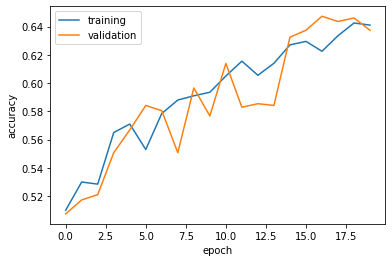
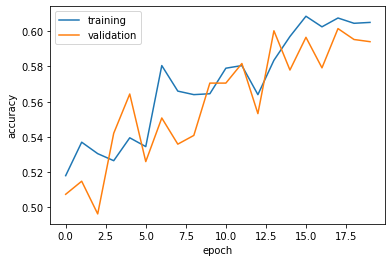
updated model

diff --git a/_posts/2021-11-10-Blog-Post-5.md b/_posts/2021-11-10-Blog-Post-5.md
@@ -202,52 +202,51 @@ history = model1.fit(train_dataset,
 ```
 
     Epoch 1/20
-    63/63 [==============================] - 6s 81ms/step - loss: 97.3352 - accuracy: 0.5320 - val_loss: 0.6938 - val_accuracy: 0.5000
+    63/63 [==============================] - 36s 84ms/step - loss: 59.7299 - accuracy: 0.5290 - val_loss: 1.5811 - val_accuracy: 0.5371
     Epoch 2/20
-    63/63 [==============================] - 5s 76ms/step - loss: 0.6951 - accuracy: 0.5600 - val_loss: 0.6938 - val_accuracy: 0.5124
+    63/63 [==============================] - 5s 76ms/step - loss: 2.1825 - accuracy: 0.6020 - val_loss: 0.7144 - val_accuracy: 0.5198
     Epoch 3/20
-    63/63 [==============================] - 5s 76ms/step - loss: 0.6734 - accuracy: 0.5745 - val_loss: 0.6927 - val_accuracy: 0.5099
+    63/63 [==============================] - 5s 76ms/step - loss: 0.7894 - accuracy: 0.6295 - val_loss: 0.6952 - val_accuracy: 0.5210
     Epoch 4/20
-    63/63 [==============================] - 5s 77ms/step - loss: 0.6382 - accuracy: 0.6165 - val_loss: 0.6923 - val_accuracy: 0.5309
+    63/63 [==============================] - 5s 76ms/step - loss: 0.6209 - accuracy: 0.6720 - val_loss: 0.7031 - val_accuracy: 0.5124
     Epoch 5/20
-    63/63 [==============================] - 5s 77ms/step - loss: 0.6050 - accuracy: 0.6420 - val_loss: 0.6962 - val_accuracy: 0.5297
+    63/63 [==============================] - 5s 79ms/step - loss: 0.5342 - accuracy: 0.7240 - val_loss: 0.7068 - val_accuracy: 0.5235
     Epoch 6/20
-    63/63 [==============================] - 5s 77ms/step - loss: 0.5345 - accuracy: 0.6995 - val_loss: 0.7135 - val_accuracy: 0.5569
+    63/63 [==============================] - 5s 80ms/step - loss: 0.4904 - accuracy: 0.7555 - val_loss: 0.7096 - val_accuracy: 0.5235
     Epoch 7/20
-    63/63 [==============================] - 5s 77ms/step - loss: 0.4886 - accuracy: 0.7325 - val_loss: 0.7721 - val_accuracy: 0.5470
+    63/63 [==============================] - 5s 81ms/step - loss: 0.4260 - accuracy: 0.7870 - val_loss: 0.7373 - val_accuracy: 0.5248
     Epoch 8/20
-    63/63 [==============================] - 5s 78ms/step - loss: 0.4258 - accuracy: 0.7830 - val_loss: 0.7828 - val_accuracy: 0.5532
+    63/63 [==============================] - 6s 83ms/step - loss: 0.3735 - accuracy: 0.8140 - val_loss: 0.7581 - val_accuracy: 0.5681
     Epoch 9/20
-    63/63 [==============================] - 5s 77ms/step - loss: 0.3873 - accuracy: 0.8085 - val_loss: 0.8824 - val_accuracy: 0.5347
+    63/63 [==============================] - 5s 82ms/step - loss: 0.3569 - accuracy: 0.8390 - val_loss: 0.8211 - val_accuracy: 0.5668
     Epoch 10/20
-    63/63 [==============================] - 5s 78ms/step - loss: 0.3158 - accuracy: 0.8410 - val_loss: 0.9913 - val_accuracy: 0.5446
+    63/63 [==============================] - 5s 78ms/step - loss: 0.3198 - accuracy: 0.8490 - val_loss: 0.8517 - val_accuracy: 0.5656
     Epoch 11/20
-    63/63 [==============================] - 5s 77ms/step - loss: 0.2752 - accuracy: 0.8660 - val_loss: 1.0724 - val_accuracy: 0.5619
+    63/63 [==============================] - 6s 96ms/step - loss: 0.2869 - accuracy: 0.8730 - val_loss: 0.9513 - val_accuracy: 0.5854
     Epoch 12/20
-    63/63 [==============================] - 5s 78ms/step - loss: 0.2513 - accuracy: 0.8795 - val_loss: 1.0783 - val_accuracy: 0.5557
+    63/63 [==============================] - 5s 79ms/step - loss: 0.2764 - accuracy: 0.8725 - val_loss: 0.9976 - val_accuracy: 0.5730
     Epoch 13/20
-    63/63 [==============================] - 5s 77ms/step - loss: 0.2183 - accuracy: 0.8980 - val_loss: 1.2088 - val_accuracy: 0.5631
+    63/63 [==============================] - 5s 83ms/step - loss: 0.2682 - accuracy: 0.8745 - val_loss: 1.1224 - val_accuracy: 0.5866
     Epoch 14/20
-    63/63 [==============================] - 5s 78ms/step - loss: 0.2272 - accuracy: 0.9200 - val_loss: 1.4078 - val_accuracy: 0.5619
+    63/63 [==============================] - 5s 82ms/step - loss: 0.2204 - accuracy: 0.8975 - val_loss: 1.1921 - val_accuracy: 0.5965
     Epoch 15/20
-    63/63 [==============================] - 5s 78ms/step - loss: 0.2118 - accuracy: 0.9105 - val_loss: 1.4874 - val_accuracy: 0.5755
+    63/63 [==============================] - 6s 83ms/step - loss: 0.2380 - accuracy: 0.8960 - val_loss: 1.2220 - val_accuracy: 0.5854
     Epoch 16/20
-    63/63 [==============================] - 5s 81ms/step - loss: 0.1441 - accuracy: 0.9400 - val_loss: 1.7903 - val_accuracy: 0.5656
+    63/63 [==============================] - 5s 82ms/step - loss: 0.2318 - accuracy: 0.9075 - val_loss: 1.2270 - val_accuracy: 0.5842
     Epoch 17/20
-    63/63 [==============================] - 5s 77ms/step - loss: 0.2166 - accuracy: 0.9360 - val_loss: 1.6407 - val_accuracy: 0.5532
+    63/63 [==============================] - 5s 78ms/step - loss: 0.2010 - accuracy: 0.9080 - val_loss: 1.3600 - val_accuracy: 0.5631
     Epoch 18/20
-    63/63 [==============================] - 5s 77ms/step - loss: 0.1673 - accuracy: 0.9405 - val_loss: 1.8203 - val_accuracy: 0.5705
+    63/63 [==============================] - 5s 81ms/step - loss: 0.1818 - accuracy: 0.9220 - val_loss: 1.4521 - val_accuracy: 0.6027
     Epoch 19/20
-    63/63 [==============================] - 5s 78ms/step - loss: 0.1222 - accuracy: 0.9540 - val_loss: 1.7325 - val_accuracy: 0.5606
+    63/63 [==============================] - 5s 82ms/step - loss: 0.1469 - accuracy: 0.9320 - val_loss: 1.6404 - val_accuracy: 0.5842
     Epoch 20/20
-    63/63 [==============================] - 5s 78ms/step - loss: 0.0887 - accuracy: 0.9595 - val_loss: 2.1318 - val_accuracy: 0.5743
+    63/63 [==============================] - 6s 84ms/step - loss: 0.1299 - accuracy: 0.9445 - val_loss: 1.5791 - val_accuracy: 0.5854
     
 
 We want to visualize the training history.
 
 
 ```python
-# history object holds a record of the loss values and metric values during training
 plt.plot(history.history["accuracy"], label = "training")
 plt.plot(history.history["val_accuracy"], label = "validation")
 plt.gca().set(xlabel = "epoch", ylabel = "accuracy") # gca: get current axis 
@@ -257,7 +256,7 @@ plt.legend()
 
 
 
-    <matplotlib.legend.Legend at 0x7fce4ab79290>
+    <matplotlib.legend.Legend at 0x7f6d93d13390>
 
 
 
@@ -269,8 +268,8 @@ plt.legend()
 
 In order to consistently achieve at least 52% validation accuracy, I have tried using different numbers of layers of the layers.Conv2D and I have also experimented with different kernel sizes. 
 
-**The accuracy of my model stabilized between 52% and 57% during training.**  
-The model performed better than the basline by more than 10%.    
+**The accuracy of my model stabilized between 56% and 60% during training.**  
+The model performed better than the basline by more than 5%.    
 We can indeed observe overfitting for this model as the training accuracy is much higher than the validation accuracy. 
 
 <h1>§3. Model with Data Augmentation</h1>
@@ -283,24 +282,19 @@ Then we will make a plot of the original image and also when RandomFlip() has be
 
 
 ```python
-flip = tf.keras.layers.RandomFlip("horizontal")
+RandomFlip = tf.keras.layers.RandomFlip()
 ```
 
 
 ```python
-for images, labels in train_dataset.take(1):
+for image, _ in train_dataset.take(1):
   plt.figure(figsize=(10, 10))
-  for i in range(6):
-    ax = plt.subplot(2, 3, i + 1)
-    # we want to show the original images for the first row 
-    if i < 3:
-      plt.imshow(images[i].numpy().astype("uint8"))
-      plt.axis('off')
-    # we want to show flipped images for second row 
-    else:
-      fliped_image = flip(tf.expand_dims(images[i-3], 0))
-      plt.imshow(fliped_image[0] / 255)
-      plt.axis('off')
+  first_image = image[0]
+  for i in range(9):
+    ax = plt.subplot(3, 3, i + 1)
+    augmented_image = RandomFlip(tf.expand_dims(first_image, 0))
+    plt.imshow(augmented_image[0] / 255)
+    plt.axis('off')
 ```
 
 
@@ -313,24 +307,19 @@ Then we will create a tf.keras.layers.RandomRotation() layer and make a plot of 
 
 
 ```python
-rotate = tf.keras.layers.RandomRotation(0.2)
+RandomRotation = tf.keras.layers.RandomRotation(0.5)
 ```
 
 
 ```python
-for images, labels in train_dataset.take(1):
+for image, _ in train_dataset.take(1):
   plt.figure(figsize=(10, 10))
-  for i in range(6):
-    ax = plt.subplot(2, 3, i + 1)
-    # we want to show the original images for the first row 
-    if i < 3:
-      plt.imshow(images[i].numpy().astype("uint8"))
-      plt.axis('off')
-    # we want to show rotated images for second row 
-    else:
-      rotated_image = rotate(tf.expand_dims(images[i-3], 0))
-      plt.imshow(rotated_image[0] / 255)
-      plt.axis('off')
+  first_image = image[0]
+  for i in range(9):
+    ax = plt.subplot(3, 3, i + 1)
+    augmented_image = RandomRotation(tf.expand_dims(first_image, 0))
+    plt.imshow(augmented_image[0] / 255)
+    plt.axis('off')
 ```
 
 
@@ -378,45 +367,45 @@ history = model2.fit(train_dataset,
 ```
 
     Epoch 1/20
-    63/63 [==============================] - 7s 81ms/step - loss: 68.1625 - accuracy: 0.5100 - val_loss: 0.6902 - val_accuracy: 0.5074
+    63/63 [==============================] - 7s 83ms/step - loss: 40.0841 - accuracy: 0.5180 - val_loss: 0.6941 - val_accuracy: 0.5074
     Epoch 2/20
-    63/63 [==============================] - 5s 79ms/step - loss: 0.6873 - accuracy: 0.5300 - val_loss: 0.6978 - val_accuracy: 0.5173
+    63/63 [==============================] - 5s 80ms/step - loss: 0.6913 - accuracy: 0.5370 - val_loss: 0.6925 - val_accuracy: 0.5149
     Epoch 3/20
-    63/63 [==============================] - 5s 81ms/step - loss: 0.6922 - accuracy: 0.5285 - val_loss: 0.6839 - val_accuracy: 0.5210
+    63/63 [==============================] - 5s 79ms/step - loss: 0.6902 - accuracy: 0.5305 - val_loss: 0.6988 - val_accuracy: 0.4963
     Epoch 4/20
-    63/63 [==============================] - 5s 80ms/step - loss: 0.6811 - accuracy: 0.5650 - val_loss: 0.6955 - val_accuracy: 0.5507
+    63/63 [==============================] - 5s 78ms/step - loss: 0.6874 - accuracy: 0.5265 - val_loss: 0.6966 - val_accuracy: 0.5421
     Epoch 5/20
-    63/63 [==============================] - 5s 80ms/step - loss: 0.6818 - accuracy: 0.5710 - val_loss: 0.6806 - val_accuracy: 0.5668
+    63/63 [==============================] - 5s 78ms/step - loss: 0.6871 - accuracy: 0.5395 - val_loss: 0.6900 - val_accuracy: 0.5644
     Epoch 6/20
-    63/63 [==============================] - 5s 80ms/step - loss: 0.6851 - accuracy: 0.5530 - val_loss: 0.6745 - val_accuracy: 0.5842
+    63/63 [==============================] - 5s 80ms/step - loss: 0.6861 - accuracy: 0.5345 - val_loss: 0.6894 - val_accuracy: 0.5260
     Epoch 7/20
-    63/63 [==============================] - 5s 79ms/step - loss: 0.6786 - accuracy: 0.5785 - val_loss: 0.6703 - val_accuracy: 0.5804
+    63/63 [==============================] - 5s 78ms/step - loss: 0.6781 - accuracy: 0.5805 - val_loss: 0.6921 - val_accuracy: 0.5507
     Epoch 8/20
-    63/63 [==============================] - 5s 80ms/step - loss: 0.6764 - accuracy: 0.5880 - val_loss: 0.6830 - val_accuracy: 0.5507
+    63/63 [==============================] - 5s 78ms/step - loss: 0.6843 - accuracy: 0.5660 - val_loss: 0.6954 - val_accuracy: 0.5359
     Epoch 9/20
-    63/63 [==============================] - 5s 81ms/step - loss: 0.6763 - accuracy: 0.5910 - val_loss: 0.6710 - val_accuracy: 0.5965
+    63/63 [==============================] - 5s 78ms/step - loss: 0.6794 - accuracy: 0.5640 - val_loss: 0.6963 - val_accuracy: 0.5408
     Epoch 10/20
-    63/63 [==============================] - 5s 80ms/step - loss: 0.6718 - accuracy: 0.5935 - val_loss: 0.6732 - val_accuracy: 0.5767
+    63/63 [==============================] - 5s 79ms/step - loss: 0.6775 - accuracy: 0.5645 - val_loss: 0.7023 - val_accuracy: 0.5705
     Epoch 11/20
-    63/63 [==============================] - 5s 79ms/step - loss: 0.6636 - accuracy: 0.6050 - val_loss: 0.6523 - val_accuracy: 0.6139
+    63/63 [==============================] - 5s 79ms/step - loss: 0.6684 - accuracy: 0.5790 - val_loss: 0.7022 - val_accuracy: 0.5705
     Epoch 12/20
-    63/63 [==============================] - 5s 81ms/step - loss: 0.6607 - accuracy: 0.6155 - val_loss: 0.6691 - val_accuracy: 0.5829
+    63/63 [==============================] - 5s 78ms/step - loss: 0.6685 - accuracy: 0.5805 - val_loss: 0.6835 - val_accuracy: 0.5817
     Epoch 13/20
-    63/63 [==============================] - 5s 80ms/step - loss: 0.6581 - accuracy: 0.6055 - val_loss: 0.6685 - val_accuracy: 0.5854
+    63/63 [==============================] - 5s 78ms/step - loss: 0.6728 - accuracy: 0.5640 - val_loss: 0.6812 - val_accuracy: 0.5532
     Epoch 14/20
-    63/63 [==============================] - 5s 80ms/step - loss: 0.6598 - accuracy: 0.6140 - val_loss: 0.6600 - val_accuracy: 0.5842
+    63/63 [==============================] - 5s 79ms/step - loss: 0.6664 - accuracy: 0.5835 - val_loss: 0.6688 - val_accuracy: 0.6002
     Epoch 15/20
-    63/63 [==============================] - 5s 82ms/step - loss: 0.6505 - accuracy: 0.6270 - val_loss: 0.6503 - val_accuracy: 0.6324
+    63/63 [==============================] - 5s 79ms/step - loss: 0.6556 - accuracy: 0.5970 - val_loss: 0.6771 - val_accuracy: 0.5780
     Epoch 16/20
-    63/63 [==============================] - 5s 80ms/step - loss: 0.6526 - accuracy: 0.6295 - val_loss: 0.6482 - val_accuracy: 0.6374
+    63/63 [==============================] - 5s 78ms/step - loss: 0.6514 - accuracy: 0.6085 - val_loss: 0.6735 - val_accuracy: 0.5965
     Epoch 17/20
-    63/63 [==============================] - 5s 81ms/step - loss: 0.6497 - accuracy: 0.6225 - val_loss: 0.6476 - val_accuracy: 0.6473
+    63/63 [==============================] - 5s 79ms/step - loss: 0.6590 - accuracy: 0.6025 - val_loss: 0.6867 - val_accuracy: 0.5792
     Epoch 18/20
-    63/63 [==============================] - 5s 80ms/step - loss: 0.6442 - accuracy: 0.6335 - val_loss: 0.6486 - val_accuracy: 0.6436
+    63/63 [==============================] - 5s 79ms/step - loss: 0.6445 - accuracy: 0.6075 - val_loss: 0.6542 - val_accuracy: 0.6015
     Epoch 19/20
-    63/63 [==============================] - 5s 80ms/step - loss: 0.6427 - accuracy: 0.6425 - val_loss: 0.6440 - val_accuracy: 0.6460
+    63/63 [==============================] - 5s 79ms/step - loss: 0.6516 - accuracy: 0.6045 - val_loss: 0.6790 - val_accuracy: 0.5953
     Epoch 20/20
-    63/63 [==============================] - 5s 80ms/step - loss: 0.6471 - accuracy: 0.6410 - val_loss: 0.6368 - val_accuracy: 0.6374
+    63/63 [==============================] - 5s 78ms/step - loss: 0.6537 - accuracy: 0.6050 - val_loss: 0.6758 - val_accuracy: 0.5941
     
 
 We want to visualize the training history.
@@ -433,7 +422,7 @@ plt.legend()
 
 
 
-    <matplotlib.legend.Legend at 0x7fce4efd57d0>
+    <matplotlib.legend.Legend at 0x7f6d1b922750>
 
 
 
@@ -443,8 +432,8 @@ plt.legend()
     
 
 
-**The accuracy of this model stabilized between 58% and 63% during training.**  
-This model2's validation accuracy performed better than model1 by more than 5%.    
+**The accuracy of this model stabilized between 57% and 60% during training.**  
+This model2's validation accuracy is miliar to that of model1.   
 We do not observe overfitting for this model as the trend for training accuracy is cosistent with the trend for the validation accuracy and the values are quite close. 
 
 <h1>§4. Data Preprocessing</h1>
@@ -621,31 +610,31 @@ we want to check the model.summary()
 model4.summary()
 ```
 
-    Model: "sequential_10"
+    Model: "sequential_8"
     _________________________________________________________________
      Layer (type)                Output Shape              Param #   
     =================================================================
      model (Functional)          (None, 160, 160, 3)       0         
                                                                      
-     random_flip_9 (RandomFlip)  (None, 160, 160, 3)       0         
+     random_flip_10 (RandomFlip)  (None, 160, 160, 3)      0         
                                                                      
-     random_rotation_9 (RandomRo  (None, 160, 160, 3)      0         
-     tation)                                                         
+     random_rotation_11 (RandomR  (None, 160, 160, 3)      0         
+     otation)                                                        
                                                                      
      model_1 (Functional)        (None, 5, 5, 1280)        2257984   
                                                                      
-     conv2d_24 (Conv2D)          (None, 4, 4, 32)          163872    
+     conv2d_23 (Conv2D)          (None, 4, 4, 32)          163872    
                                                                      
-     max_pooling2d_19 (MaxPoolin  (None, 2, 2, 32)         0         
+     max_pooling2d_16 (MaxPoolin  (None, 2, 2, 32)         0         
      g2D)                                                            
                                                                      
-     dropout_10 (Dropout)        (None, 2, 2, 32)          0         
+     dropout_8 (Dropout)         (None, 2, 2, 32)          0         
                                                                      
-     flatten_10 (Flatten)        (None, 128)               0         
+     flatten_8 (Flatten)         (None, 128)               0         
                                                                      
-     dense_20 (Dense)            (None, 64)                8256      
+     dense_16 (Dense)            (None, 64)                8256      
                                                                      
-     dense_21 (Dense)            (None, 2)                 130       
+     dense_17 (Dense)            (None, 2)                 130       
                                                                      
     =================================================================
     Total params: 2,430,242
@@ -672,45 +661,45 @@ history = model4.fit(train_dataset,
 ```
 
     Epoch 1/20
-    63/63 [==============================] - 12s 118ms/step - loss: 0.2876 - accuracy: 0.8900 - val_loss: 0.0726 - val_accuracy: 0.9616
+    63/63 [==============================] - 12s 119ms/step - loss: 0.2918 - accuracy: 0.8975 - val_loss: 0.0597 - val_accuracy: 0.9752
     Epoch 2/20
-    63/63 [==============================] - 6s 93ms/step - loss: 0.1407 - accuracy: 0.9405 - val_loss: 0.0491 - val_accuracy: 0.9827
+    63/63 [==============================] - 6s 93ms/step - loss: 0.1566 - accuracy: 0.9315 - val_loss: 0.0480 - val_accuracy: 0.9839
     Epoch 3/20
-    63/63 [==============================] - 6s 93ms/step - loss: 0.1379 - accuracy: 0.9485 - val_loss: 0.0459 - val_accuracy: 0.9777
+    63/63 [==============================] - 6s 93ms/step - loss: 0.1250 - accuracy: 0.9545 - val_loss: 0.0494 - val_accuracy: 0.9827
     Epoch 4/20
-    63/63 [==============================] - 6s 94ms/step - loss: 0.1269 - accuracy: 0.9425 - val_loss: 0.0505 - val_accuracy: 0.9790
+    63/63 [==============================] - 7s 101ms/step - loss: 0.1109 - accuracy: 0.9555 - val_loss: 0.0435 - val_accuracy: 0.9827
     Epoch 5/20
-    63/63 [==============================] - 6s 93ms/step - loss: 0.0933 - accuracy: 0.9610 - val_loss: 0.0366 - val_accuracy: 0.9901
+    63/63 [==============================] - 7s 100ms/step - loss: 0.0975 - accuracy: 0.9665 - val_loss: 0.0577 - val_accuracy: 0.9765
     Epoch 6/20
-    63/63 [==============================] - 6s 92ms/step - loss: 0.1078 - accuracy: 0.9580 - val_loss: 0.0591 - val_accuracy: 0.9752
+    63/63 [==============================] - 6s 97ms/step - loss: 0.1090 - accuracy: 0.9540 - val_loss: 0.0484 - val_accuracy: 0.9814
     Epoch 7/20
-    63/63 [==============================] - 6s 93ms/step - loss: 0.0862 - accuracy: 0.9690 - val_loss: 0.0498 - val_accuracy: 0.9814
+    63/63 [==============================] - 6s 98ms/step - loss: 0.0988 - accuracy: 0.9575 - val_loss: 0.0476 - val_accuracy: 0.9790
     Epoch 8/20
-    63/63 [==============================] - 6s 94ms/step - loss: 0.1121 - accuracy: 0.9560 - val_loss: 0.0592 - val_accuracy: 0.9777
+    63/63 [==============================] - 6s 95ms/step - loss: 0.1035 - accuracy: 0.9575 - val_loss: 0.0366 - val_accuracy: 0.9876
     Epoch 9/20
-    63/63 [==============================] - 6s 92ms/step - loss: 0.0928 - accuracy: 0.9620 - val_loss: 0.0686 - val_accuracy: 0.9715
+    63/63 [==============================] - 6s 95ms/step - loss: 0.1066 - accuracy: 0.9595 - val_loss: 0.0470 - val_accuracy: 0.9814
     Epoch 10/20
-    63/63 [==============================] - 6s 93ms/step - loss: 0.0769 - accuracy: 0.9715 - val_loss: 0.0504 - val_accuracy: 0.9802
+    63/63 [==============================] - 7s 99ms/step - loss: 0.0952 - accuracy: 0.9640 - val_loss: 0.0360 - val_accuracy: 0.9827
     Epoch 11/20
-    63/63 [==============================] - 6s 93ms/step - loss: 0.0549 - accuracy: 0.9785 - val_loss: 0.0487 - val_accuracy: 0.9814
+    63/63 [==============================] - 6s 98ms/step - loss: 0.0692 - accuracy: 0.9720 - val_loss: 0.0394 - val_accuracy: 0.9864
     Epoch 12/20
-    63/63 [==============================] - 6s 92ms/step - loss: 0.0698 - accuracy: 0.9725 - val_loss: 0.0399 - val_accuracy: 0.9864
+    63/63 [==============================] - 6s 96ms/step - loss: 0.0695 - accuracy: 0.9745 - val_loss: 0.0425 - val_accuracy: 0.9839
     Epoch 13/20
-    63/63 [==============================] - 6s 92ms/step - loss: 0.0698 - accuracy: 0.9735 - val_loss: 0.0379 - val_accuracy: 0.9802
+    63/63 [==============================] - 6s 96ms/step - loss: 0.0662 - accuracy: 0.9740 - val_loss: 0.0524 - val_accuracy: 0.9827
     Epoch 14/20
-    63/63 [==============================] - 6s 92ms/step - loss: 0.0795 - accuracy: 0.9730 - val_loss: 0.0753 - val_accuracy: 0.9715
+    63/63 [==============================] - 6s 97ms/step - loss: 0.0670 - accuracy: 0.9750 - val_loss: 0.0549 - val_accuracy: 0.9802
     Epoch 15/20
-    63/63 [==============================] - 6s 92ms/step - loss: 0.0705 - accuracy: 0.9735 - val_loss: 0.0481 - val_accuracy: 0.9814
+    63/63 [==============================] - 6s 96ms/step - loss: 0.0723 - accuracy: 0.9740 - val_loss: 0.0447 - val_accuracy: 0.9790
     Epoch 16/20
-    63/63 [==============================] - 6s 94ms/step - loss: 0.0663 - accuracy: 0.9780 - val_loss: 0.0459 - val_accuracy: 0.9814
+    63/63 [==============================] - 6s 95ms/step - loss: 0.0573 - accuracy: 0.9790 - val_loss: 0.0461 - val_accuracy: 0.9790
     Epoch 17/20
-    63/63 [==============================] - 6s 93ms/step - loss: 0.0588 - accuracy: 0.9745 - val_loss: 0.0428 - val_accuracy: 0.9864
+    63/63 [==============================] - 6s 94ms/step - loss: 0.0617 - accuracy: 0.9765 - val_loss: 0.0550 - val_accuracy: 0.9790
     Epoch 18/20
-    63/63 [==============================] - 6s 93ms/step - loss: 0.0500 - accuracy: 0.9785 - val_loss: 0.0486 - val_accuracy: 0.9814
+    63/63 [==============================] - 6s 98ms/step - loss: 0.0641 - accuracy: 0.9710 - val_loss: 0.0468 - val_accuracy: 0.9839
     Epoch 19/20
-    63/63 [==============================] - 6s 93ms/step - loss: 0.0443 - accuracy: 0.9820 - val_loss: 0.0350 - val_accuracy: 0.9864
+    63/63 [==============================] - 6s 98ms/step - loss: 0.0546 - accuracy: 0.9765 - val_loss: 0.0400 - val_accuracy: 0.9851
     Epoch 20/20
-    63/63 [==============================] - 6s 94ms/step - loss: 0.0430 - accuracy: 0.9850 - val_loss: 0.0357 - val_accuracy: 0.9839
+    63/63 [==============================] - 6s 98ms/step - loss: 0.0460 - accuracy: 0.9815 - val_loss: 0.0577 - val_accuracy: 0.9864
     
 
 We want to visualize the training history.
@@ -727,7 +716,7 @@ plt.legend()
 
 
 
-    <matplotlib.legend.Legend at 0x7fce4ec4c550>
+    <matplotlib.legend.Legend at 0x7f6d939f9210>
 
 
 
@@ -737,8 +726,8 @@ plt.legend()
     
 
 
-**The accuracy of this model stabilized between 96% and 98% during training.**  
-This model4's validation accuracy performed much better than model1 by more than 40%, and it is better than model3 by more than 20%.     
+**The accuracy of this model stabilized between 97% and 98% during training.**  
+This model4's validation accuracy performed much better than model1 by about 40%, and it is better than model3 by more than 20%.     
 We do not observe overfitting for this model as the validation accuracy performs better than the training accuracy most of the times. 
 
 <h1>§6. Score on Test Data</h1>
@@ -751,7 +740,7 @@ loss, accuracy = model4.evaluate(test_dataset)
 print('Test accuracy :', accuracy)
 ```
 
-    6/6 [==============================] - 1s 63ms/step - loss: 0.0669 - accuracy: 0.9896
+    6/6 [==============================] - 1s 68ms/step - loss: 0.0431 - accuracy: 0.9896
     Test accuracy : 0.9895833134651184
     
 
